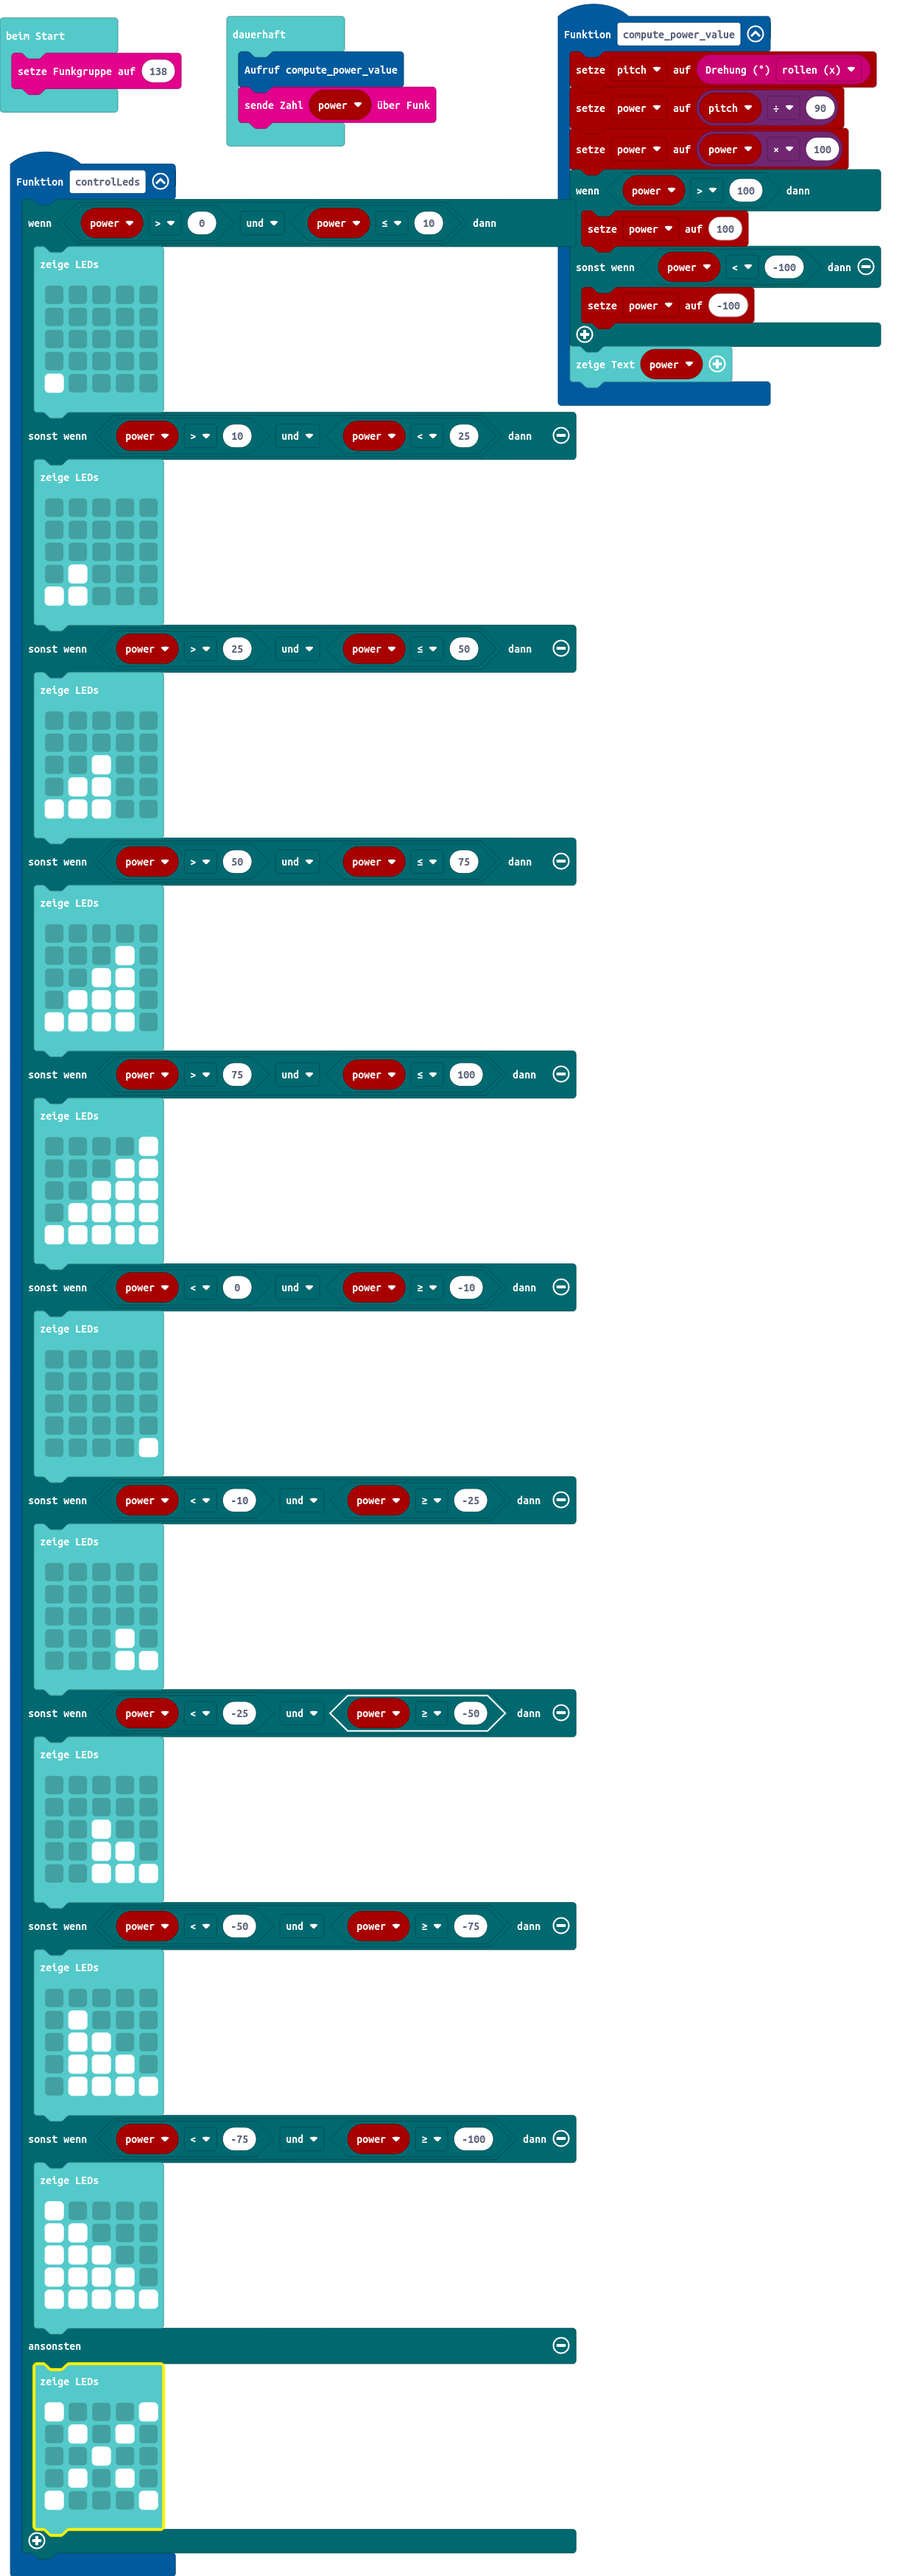
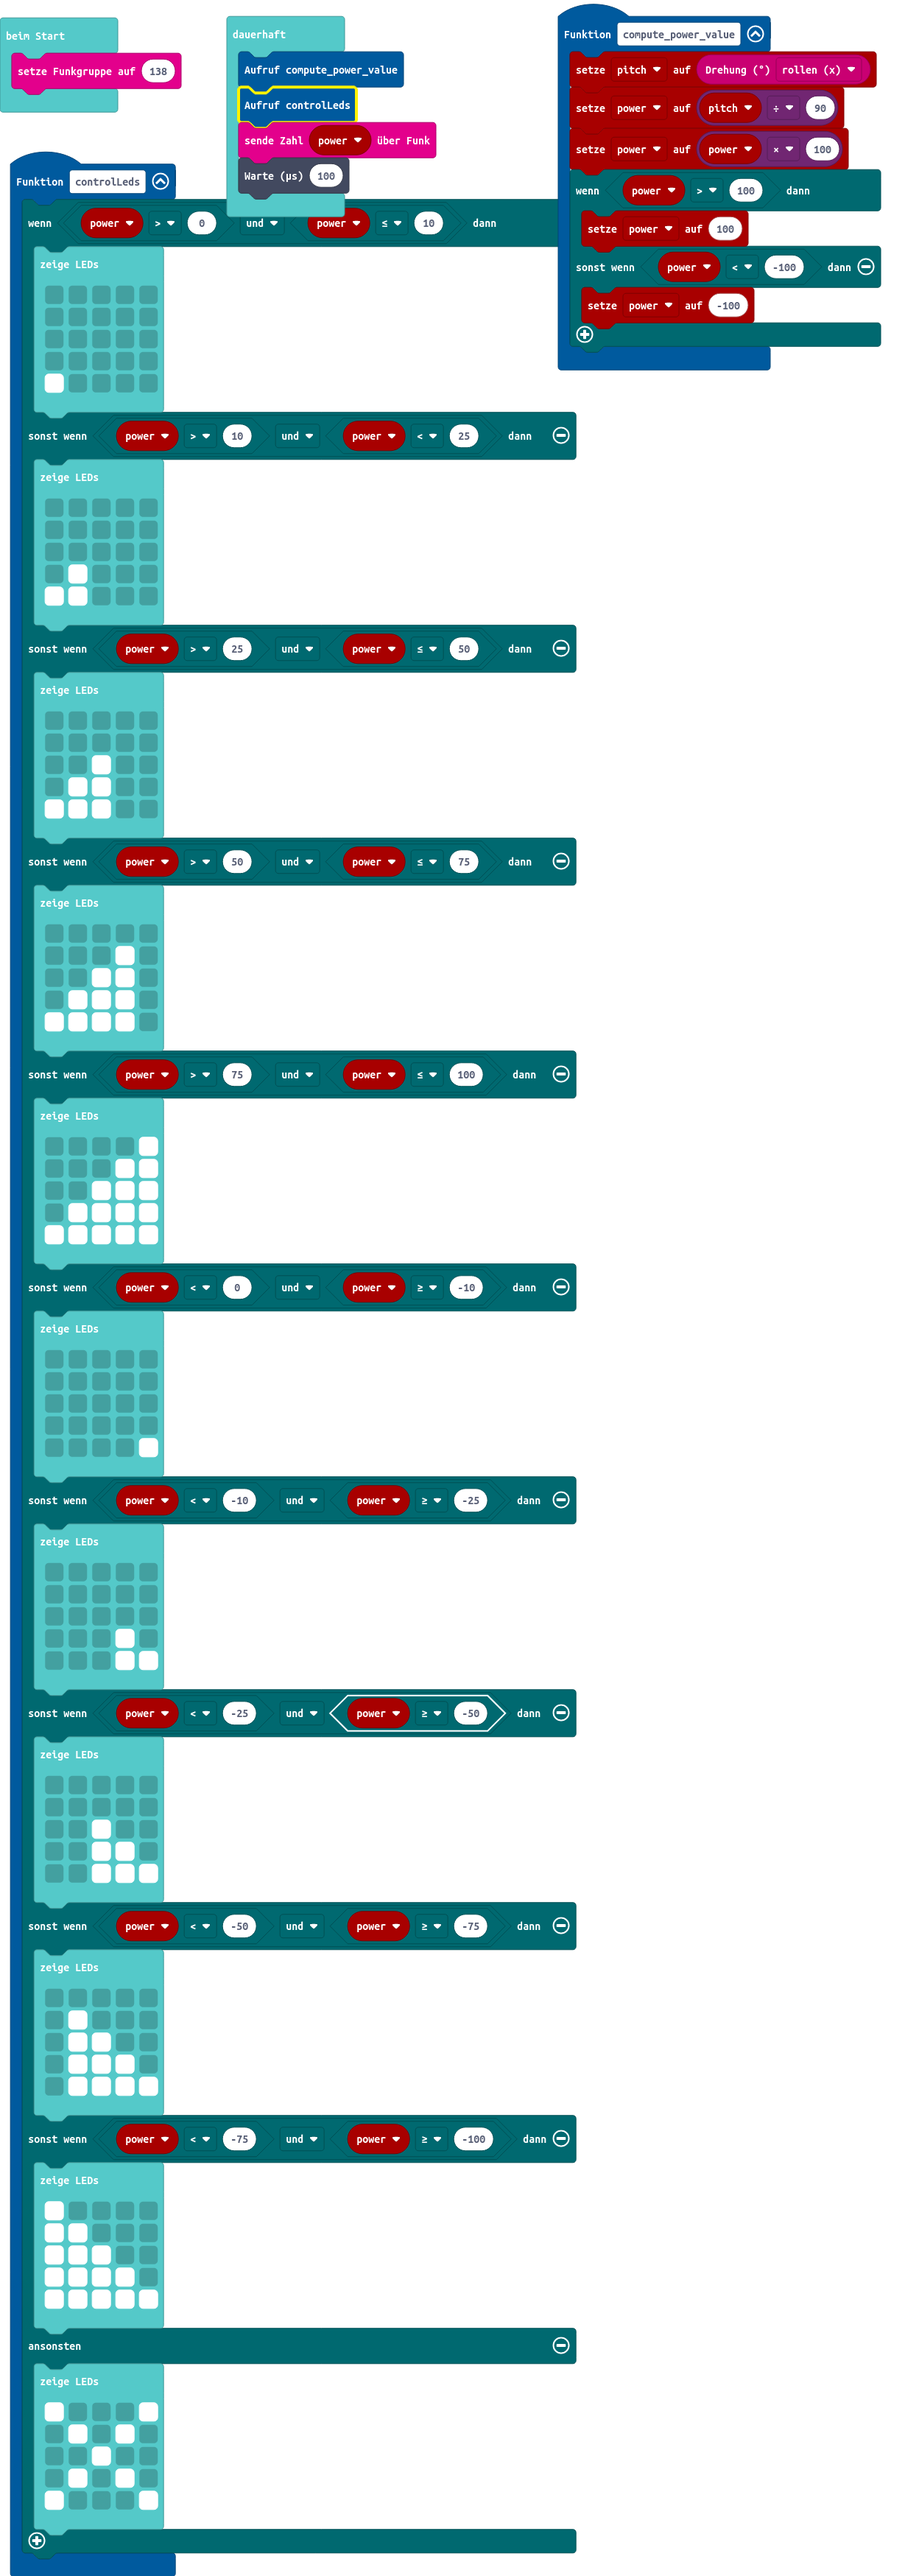
call control leds in forever loop

diff --git a/main.ts b/main.ts
@@ -98,12 +98,13 @@ function compute_power_value () {
     } else if (power < -100) {
         power = -100
     }
-    basic.showString("" + (power))
 }
 let pitch = 0
 let power = 0
 radio.setGroup(138)
 basic.forever(function () {
     compute_power_value()
+    controlLeds()
     radio.sendNumber(power)
+    control.waitMicros(100)
 })
